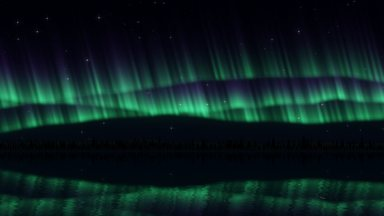
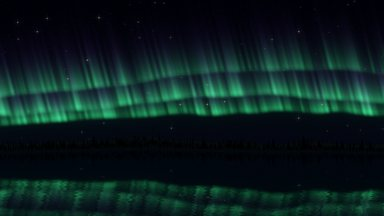
Aurora's shore is no longer a straight line: it rises and falls gently across the screen (low on the left, up to around 40%, down past 60% to around 70%, a little rise near 80%, down again to the right; about 1% of the screen's height either way) with a little unevenness, and the hills, the trees, t

Changed region(s): [[0.0, 0.2222, 1.0, 0.6389], [0.0, 0.7778, 1.0, 1.0], [0.3125, 0.9722, 0.3438, 1.0]]

diff --git a/apps/desktop/renderer/app/viz/aurora.js b/apps/desktop/renderer/app/viz/aurora.js
@@ -213,38 +213,54 @@
       return col;
     }
 
+    // Where the water meets the land across the screen (x 0..1): not
+    // straight but gently rising and falling, as a real shore does (low on
+    // the left, up to around 40%, down past 60% to around 70%, a little
+    // rise near 80%, down again to the right), with a little unevenness.
+    float shore(float x) {
+      float xs[6] = float[](0.0, 0.4, 0.6, 0.7, 0.78, 1.0);
+      float ys[6] = float[](-0.6, 0.8, 0.0, -0.5, -0.2, -0.8);
+      float y = ys[0];
+      for (int i = 0; i < 5; i++) {
+        float t = clamp((x - xs[i]) / (xs[i + 1] - xs[i]), 0.0, 1.0);
+        if (x >= xs[i]) y = mix(ys[i], ys[i + 1], t * t * (3.0 - 2.0 * t));
+      }
+      return HORIZON + 0.012 * y + 0.003 * (vnoise(vec2(x * 25.0, 2.0)) - 0.5) + 0.0012 * (vnoise(vec2(x * 110.0, 5.0)) - 0.5);
+    }
+
     void main() {
       float aspect = res.x / res.y;
       vec2 p = uv;
+      float H = shore(p.x);
       vec3 col;
       float wave = 0.0;
-      if (p.y >= HORIZON || lake < 0.5) {
+      if (p.y >= H || lake < 0.5) {
         col = sky(p, aspect);
       } else {
         // The lake: the sky mirrored, broken by small waves, darker.
-        float depth = (HORIZON - p.y) / HORIZON;
+        float depth = (H - p.y) / H;
         wave = (vnoise(vec2(p.x * aspect * 40.0, p.y * 260.0 - time * 0.8)) - 0.5) * 0.012 * (0.3 + depth);
-        vec2 m = vec2(p.x + wave, 2.0 * HORIZON - p.y + wave * 0.5);
+        vec2 m = vec2(p.x + wave, 2.0 * H - p.y + wave * 0.5);
         col = sky(m, aspect) * (0.55 - 0.25 * depth);
         col += vec3(0.0, 0.01, 0.02);
       }
       // The mountains, dark against the sky (a little hazy, being far), a
       // little of the aurora's light on their snow.
-      float top = ridge(p.x * aspect);
-      float mirrored = 2.0 * HORIZON - ridge(p.x * aspect);
-      if ((p.y < top && p.y > HORIZON) || (lake < 0.5 && p.y < top)) {
+      float top = ridge(p.x * aspect) + H - HORIZON;
+      float mirrored = 2.0 * H - top;
+      if ((p.y < top && p.y > H) || (lake < 0.5 && p.y < top)) {
         float snow = smoothstep(top - 0.03, top, p.y) * 0.5;
         col = vec3(0.013, 0.017, 0.028) + low * snow * 0.04;
-      } else if (lake > 0.5 && p.y < HORIZON && p.y > mirrored) {
+      } else if (lake > 0.5 && p.y < H && p.y > mirrored) {
         // The low land barely shows in the water (what stands on it does),
         // but for the bank right at the water's edge.
-        col = mix(col, vec3(0.006, 0.009, 0.016), mix(0.7, 0.12, smoothstep(0.0, 0.007, HORIZON - p.y)));
+        col = mix(col, vec3(0.006, 0.009, 0.016), mix(0.7, 0.12, smoothstep(0.0, 0.007, H - p.y)));
       }
       // The trees in front, and mirrored in the lake, broken by its waves.
-      if (p.y >= HORIZON) col = forest(col, p.x * aspect, p.y - HORIZON, top - HORIZON, 1.0);
-      else if (lake > 0.5) col = forest(col, (p.x + wave) * aspect, HORIZON - p.y + wave * 0.5, top - HORIZON, 0.8);
+      if (p.y >= H) col = forest(col, p.x * aspect, p.y - H, top - H, 1.0);
+      else if (lake > 0.5) col = forest(col, (p.x + wave) * aspect, H - p.y + wave * 0.5, top - H, 0.8);
       // A thin glint along the water's edge, where the calm water catches the sky.
-      if (lake > 0.5) col += low * 0.035 * (0.5 + 0.5 * vnoise(vec2(p.x * aspect * 90.0, time * 0.3))) * exp(-abs(p.y - HORIZON) * res.y / 1.3);
+      if (lake > 0.5) col += low * 0.035 * (0.5 + 0.5 * vnoise(vec2(p.x * aspect * 90.0, time * 0.3))) * exp(-abs(p.y - H) * res.y / 1.3);
       col = 1.0 - exp(-col * 1.4);
       col += (hash12(gl_FragCoord.xy + time) - 0.5) / 255.0;
       o = vec4(col, 1.0);
